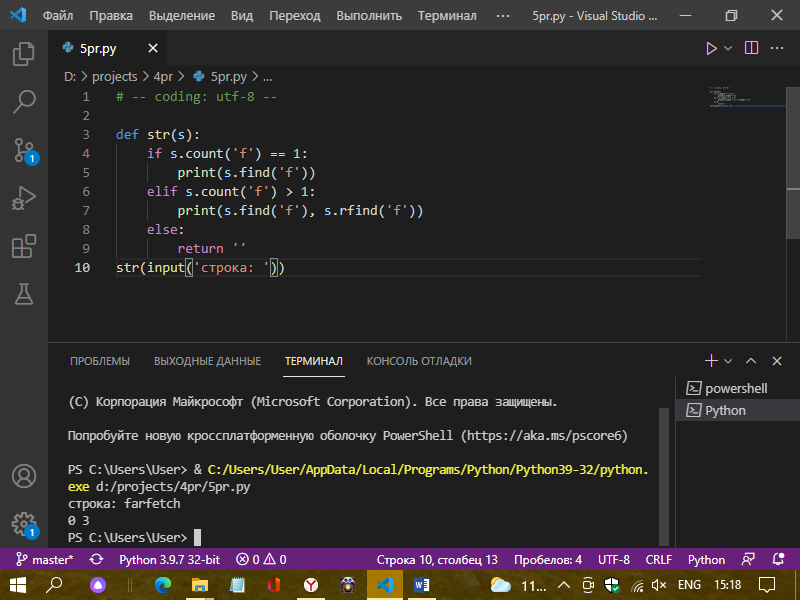
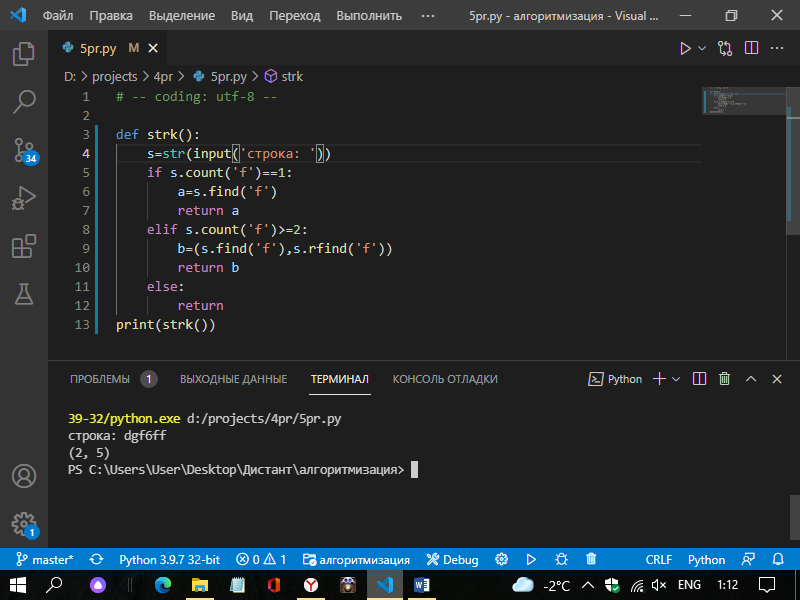
исправлено

diff --git a/4pr/1pr.py b/4pr/1pr.py
@@ -1,13 +1,14 @@
 # -- coding: utf-8 --
 
-def str(s):
-    print(s[2])
-    print(s[-2])
-    print(s[:5:])
-    print(s[:-2:])
-    print(s[::2])
-    print(s[1::2])
-    print(s[::-1])
-    print(s[::-2])
-    print(len(s))
-str(input('строка: '))
+def strk():
+	s=str(input('Введите строку '))
+	print (s[2])
+	print (s[-2])
+	print (s[0:5])
+	print(s[:-2])
+	print(s[::2])
+	print(s[1::2])
+	print(s[::-1])
+	print(s[::-2])
+	print(len(s))
+print(strk())

diff --git a/4pr/5pr.py b/4pr/5pr.py
@@ -1,10 +1,13 @@
 # -- coding: utf-8 --
 
-def str(s):
-    if s.count('f') == 1:
-        print(s.find('f'))
-    elif s.count('f') > 1:
-        print(s.find('f'), s.rfind('f'))
-    else:
-        return ''
-str(input('строка: '))
+def strk():
+	s=str(input('строка: '))
+	if s.count('f')==1:
+		a=s.find('f')
+		return a
+	elif s.count('f')>=2:
+		b=(s.find('f'),s.rfind('f'))
+		return b
+	else:
+		return 	
+print(strk())

diff --git a/4pr/6pr.py b/4pr/6pr.py
@@ -1,10 +1,9 @@
 # -- coding: utf-8 --
 
-def str(s):
-    if s.count('f') > 1:
-        print(s.find('f', s.find('f') + 1))
-    elif s.count('f') == 1:
-        print('-1')
-    else:
-        print('-2')
-str(input('Строка: '))
+s=str(input("строка: "))
+if s.count('f') == 1:
+    print(-1)
+elif s.count('f') < 1:
+    print(-2)
+else:
+    print(s.find('f', s.find('f') + 1))

diff --git a/4pr/9pr.py b/4pr/9pr.py
@@ -1,6 +1,8 @@
 # -- coding: utf-8 --
 
-def str(s, symboldelete):
-    s = s.replace(symboldelete, '')
-    print(s)
-str(input('строка: '), input('удалить символ: '))
+def strk():
+	s=str(input('строка: '))
+	z=str(input('символ: '))
+	a=(s.replace(z,''))
+	return a
+print(strk())

diff --git a/4pr/8pr.py b/4pr/8pr.py
@@ -1,5 +1,8 @@
 # -- coding: utf-8 --
 
-def str(s):
-    print((s[s.find('h') + 1:s.rfind('h'):])[::-1])
-str(input('строка: '))
+s=str(input("строка: "))
+a = s[:s.find('h')] 
+b = s[s.find('h'):s.rfind('h') + 1]
+c = s[s.rfind('h') + 1:]
+s = a + b[::-1] + c
+print(s)

diff --git a/4pr/7pr.py b/4pr/7pr.py
@@ -1,6 +1,7 @@
-
 # -- coding: utf-8 --
 
-def str(s):
-    print(s.replace(s[s.find('h'):s.rfind('h') + 1], ''))
-str(input('строка: '))
+def strk():
+	s=str(input())
+	a=(s.replace(s[s.find('h'):s.rfind('h') + 1], ''))
+	return a   
+print(strk())

diff --git a/4pr/3pr.py b/4pr/3pr.py
@@ -1,6 +1,5 @@
 # -- coding: utf-8 --
 
-def str(s):
-    s1 = (s[(len(s) + 1) // 2:] + s[:(len(s) + 1) // 2])
-    print(s1)
-str(input('Строка: '))
+s=str(input("строка: "))
+a=s[(len(s) + 1) // 2:] + s[:(len(s) + 1) // 2]
+print(a)

diff --git a/4pr/4pr.py b/4pr/4pr.py
@@ -1,5 +1,6 @@
-# -- coding: utf-8 --
+# -*- coding: utf-8 -*-
 
-def str(s):
-    print(s[s.find(' ') + 1:], s[:s.find(' ')])
-str(input('Строка: '))
+s = input()
+f_w = s[:s.find(' ')]
+s_w = s[s.find(' ') + 1:]
+print(s_w + ' ' + f_w)

diff --git a/4pr/2pr.py b/4pr/2pr.py
@@ -1,6 +1,8 @@
 # -- coding: utf-8 --
 
-def str(s):
-    s = s.strip()
-    print(s.count(' ') + 1)
-str(input('строка: '))
+def strk():
+	s=str(input('Введите строку '))
+	a=(s.count(" ")+1)
+	return a
+print(strk())
+
